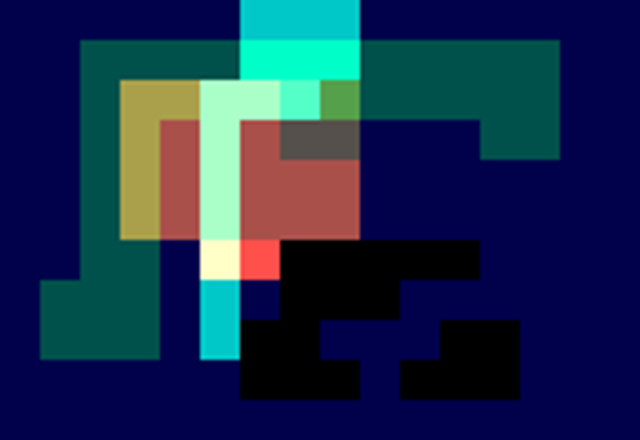
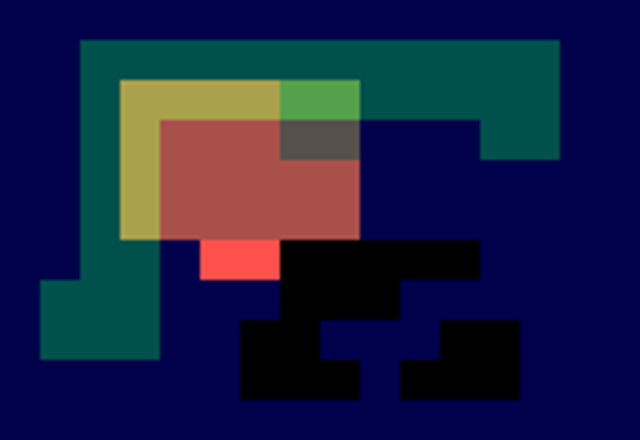
test policy animation

Changed region(s): [[0.3125, 0.0, 0.5625, 0.8273]]

diff --git a/project/boolean_task.py b/project/boolean_task.py
@@ -56,13 +56,14 @@ class GoalOrientedQLearning:
         new_q = sub_q + self.alpha * delta
         self.Q[sx, sy, subgoals[:, 0], subgoals[:, 1], action] = new_q
     
-    def select_action(self, state):
+    def select_action(self, state, mask=None):
         """Select an action using epsilon-greedy policy."""
         if not self.G or random.random() < self.epsilon:
             return random.choice(self.actions)
         
         # Choose the best action based on current subgoals
-        subgoals = torch.tensor(list(self.G), dtype=int)
+        if mask is None:
+            subgoals = torch.IntTensor(list(self.G))
         sx, sy = tuple(state[i].expand(subgoals.shape[0]) for i in range(2))
         qs = self.Q[sx, sy, subgoals[:, 0], subgoals[:, 1]]
         max_av = torch.max(qs, 0)
@@ -259,16 +260,19 @@ class GoalOrientedQLearning:
         ax.set_title('Policy Visualization with Direction Arrows')
         
         plt.tight_layout()
-        plt.savefig(f"project/static/{fn}.png")
+        plt.savefig(f"project/static/policy/{fn}.png")
     
     def test_policy(self, mask, start_state=None, max_steps=200):
         """Test the learned policy from a given start state."""
-        
         self.env.start(start_state, None)
         total_reward = 0
         steps = 0
+        policy = self.q_compose(mask).max(2).indices
         while steps < max_steps:
-            action = self.select_action(self.env.loc)
+            if random.random() < self.epsilon*2:
+                action = random.choice(self.actions)
+            else:
+                action = policy[self.env.loc[0], self.env.loc[1]]
             next_state, reward, done = self.env.step(action, True)
             total_reward += reward
             steps += 1
@@ -291,9 +295,10 @@ if __name__ == "__main__":
     # Train the agent
     agent.env.start()
     # rewards = agent.train(num_episodes=1801, max_steps_per_episode=30)
-    mask = agent.parse_compose("not(and('goal-1', 'goal-2'))")
-    agent.visualize_policy_with_arrows(mask, "not-(g1 and g2)")
-    # agent.test_policy(T["goal-1"])
+    mask = agent.parse_compose("and(not('goal-2'), 'goal-1')")
+    # mask = agent.parse_compose("not(and('goal-1', 'goal-2'))")
+    agent.visualize_policy_with_arrows(mask, "g1 and not-g2")
+    agent.test_policy(mask, [10,0])
     # # Plot learning curve
     # plt.figure(figsize=(10, 5))
     # plt.plot(rewards)

diff --git a/project/reach_avoid_tabular.py b/project/reach_avoid_tabular.py
@@ -12,12 +12,10 @@ class Room:
         self.terrain = None
         self.loc = torch.zeros(2, dtype=torch.uint8)
 
-    def visual(self):
+    def visual(self, animate=True):
         c_step = int(255 / (len(self.goals)-1)) if len(self.goals) > 1 else 0
         canvas = torch.unsqueeze(self.base, 2).repeat(1,1,3).numpy().astype(int)*75
         canvas[:, :, :2] = 0
-        for loc in self._trace:
-            canvas[loc[0], loc[1]] = torch.tensor([0, 200, 200])
         r = 0
         for goal in self.goals.values():
             canvas[:, :, 0] += goal.numpy() * r
@@ -26,6 +24,14 @@ class Room:
         canvas = np.minimum(canvas, 255).astype(np.uint8)
         Image.fromarray(np.repeat(np.repeat(canvas, 10, axis=1), 10, axis=0), mode="RGB").resize(self._vis_size).save("project/static/room-goals.png")
         Image.fromarray(np.repeat(np.repeat(self.terrain.numpy().astype(np.uint8)*100, 10, axis=1), 10, axis=0), mode="L").resize(self._vis_size).save("project/static/room-terrain.png")
+        if animate and len(self._trace) > 1:
+            frames = []
+            for loc in self._trace:
+                frame = np.copy(canvas)
+                frame[loc[0], loc[1]] = [0, 200, 200]
+                frames.append(Image.fromarray(np.repeat(np.repeat(frame, 10, axis=1), 10, axis=0)))
+            frames[0].save("project/static/trace-animate.gif", save_all=True, append_images=frames[1:])
+            
 
     def start(self, start_state=None, restriction=None):
         if self.terrain is None:
@@ -33,14 +39,14 @@ class Room:
             self.terrain = torch.max(torch.stack(masks), dim=0).values
             self._avail_locs = [(r,c) for r in range(self.terrain.shape[0]) for c in range(self.terrain.shape[1]) if self.base[r, c] == 1]
         if start_state is not None:
-            loc = start_state
+            loc = torch.IntTensor(start_state)
         elif restriction is not None:
             region = [(r,c) for r,c in self._avail_locs if restriction[r,c] > 0]
-            loc = torch.Tensor(random.choice(region))
+            loc = torch.IntTensor(random.choice(region))
         else:
-            loc = torch.Tensor(random.choice(self._avail_locs))
+            loc = torch.IntTensor(random.choice(self._avail_locs))
 
-        self.loc = loc.to(dtype=torch.int)
+        self.loc = loc
         self._trace = [self.loc]
         return self.loc
 
